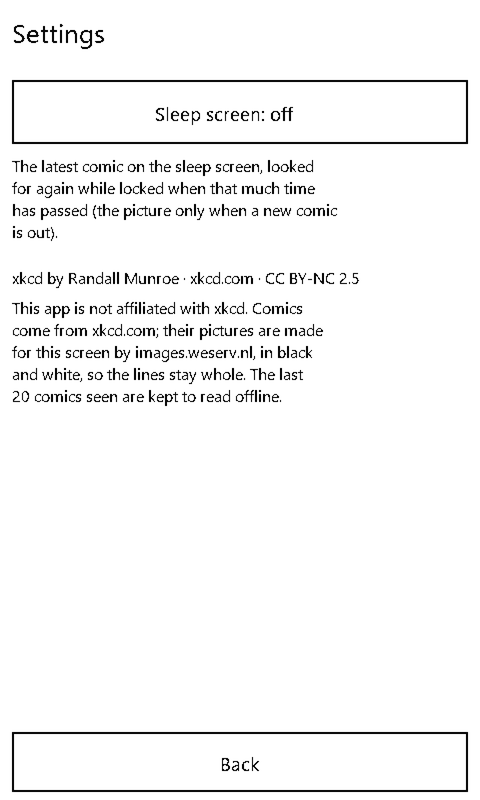
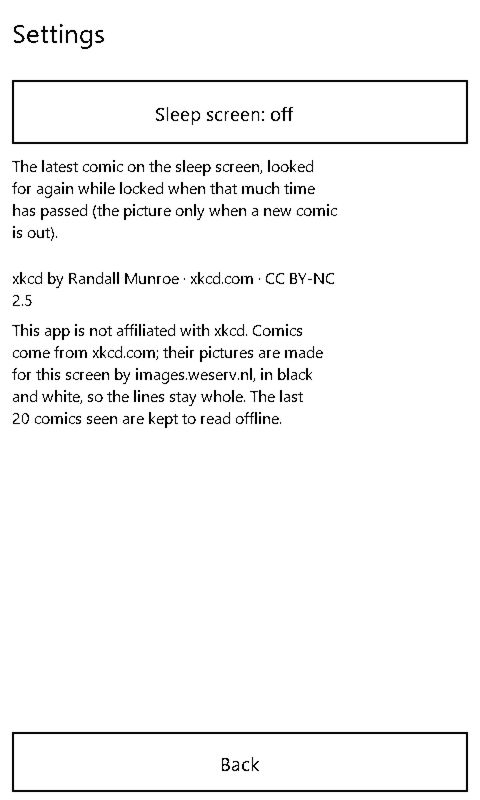
xkcd: the credit line in Settings wraps (Studio cut it off at "CC BY-NC")

Changed region(s): [[0.0312, 0.375, 0.6875, 0.5312], [0.7188, 0.3438, 0.75, 0.375]]

diff --git a/apps/xkcd/test_xkcd.py b/apps/xkcd/test_xkcd.py
@@ -298,9 +298,13 @@ assert api().screen() == 'alt' and 'Close' in t and any('It goes on and on.' in 
 assert back() is True and api().screen() == 'comic'
 
 # Settings: the credit, the sleep screen (Off / every 3 / 6 / 12 hours)
+goto('7'); answer_all()                                         # a tall comic: portrait, 480 px, as in Studio
+assert width() == 480
 g.tap_label('More'); g.tap_label('Settings')
 t = texts()
-assert 'xkcd by Randall Munroe · xkcd.com · CC BY-NC 2.5'.encode().decode('latin-1') in t and 'Sleep screen: off' in t, t
+assert 'xkcd by Randall Munroe · xkcd.com · CC BY-NC 2.5'.encode().decode('latin-1') in ' '.join(t) and 'Sleep screen: off' in t, t
+wide = [str(r.s) for r in g.draw() if int(r.x) + 10 * len(str(r.s).encode('latin-1').decode('utf-8')) > width() - 12]
+assert not wide, f'past the screen edge (Studio cut the credit off): {wide}'
 g.tap_label('Sleep screen: off'); g.tap_label('Every 6 hours')
 assert list(L.eval('lock_calls').values()) == ['set'] and 'lockevery=6' in g.store['settings.txt'] and 'Sleep screen: every 6 hours' in texts()
 g.tap_label('Sleep screen: every 6 hours'); g.tap_label('Every 12 hours')
